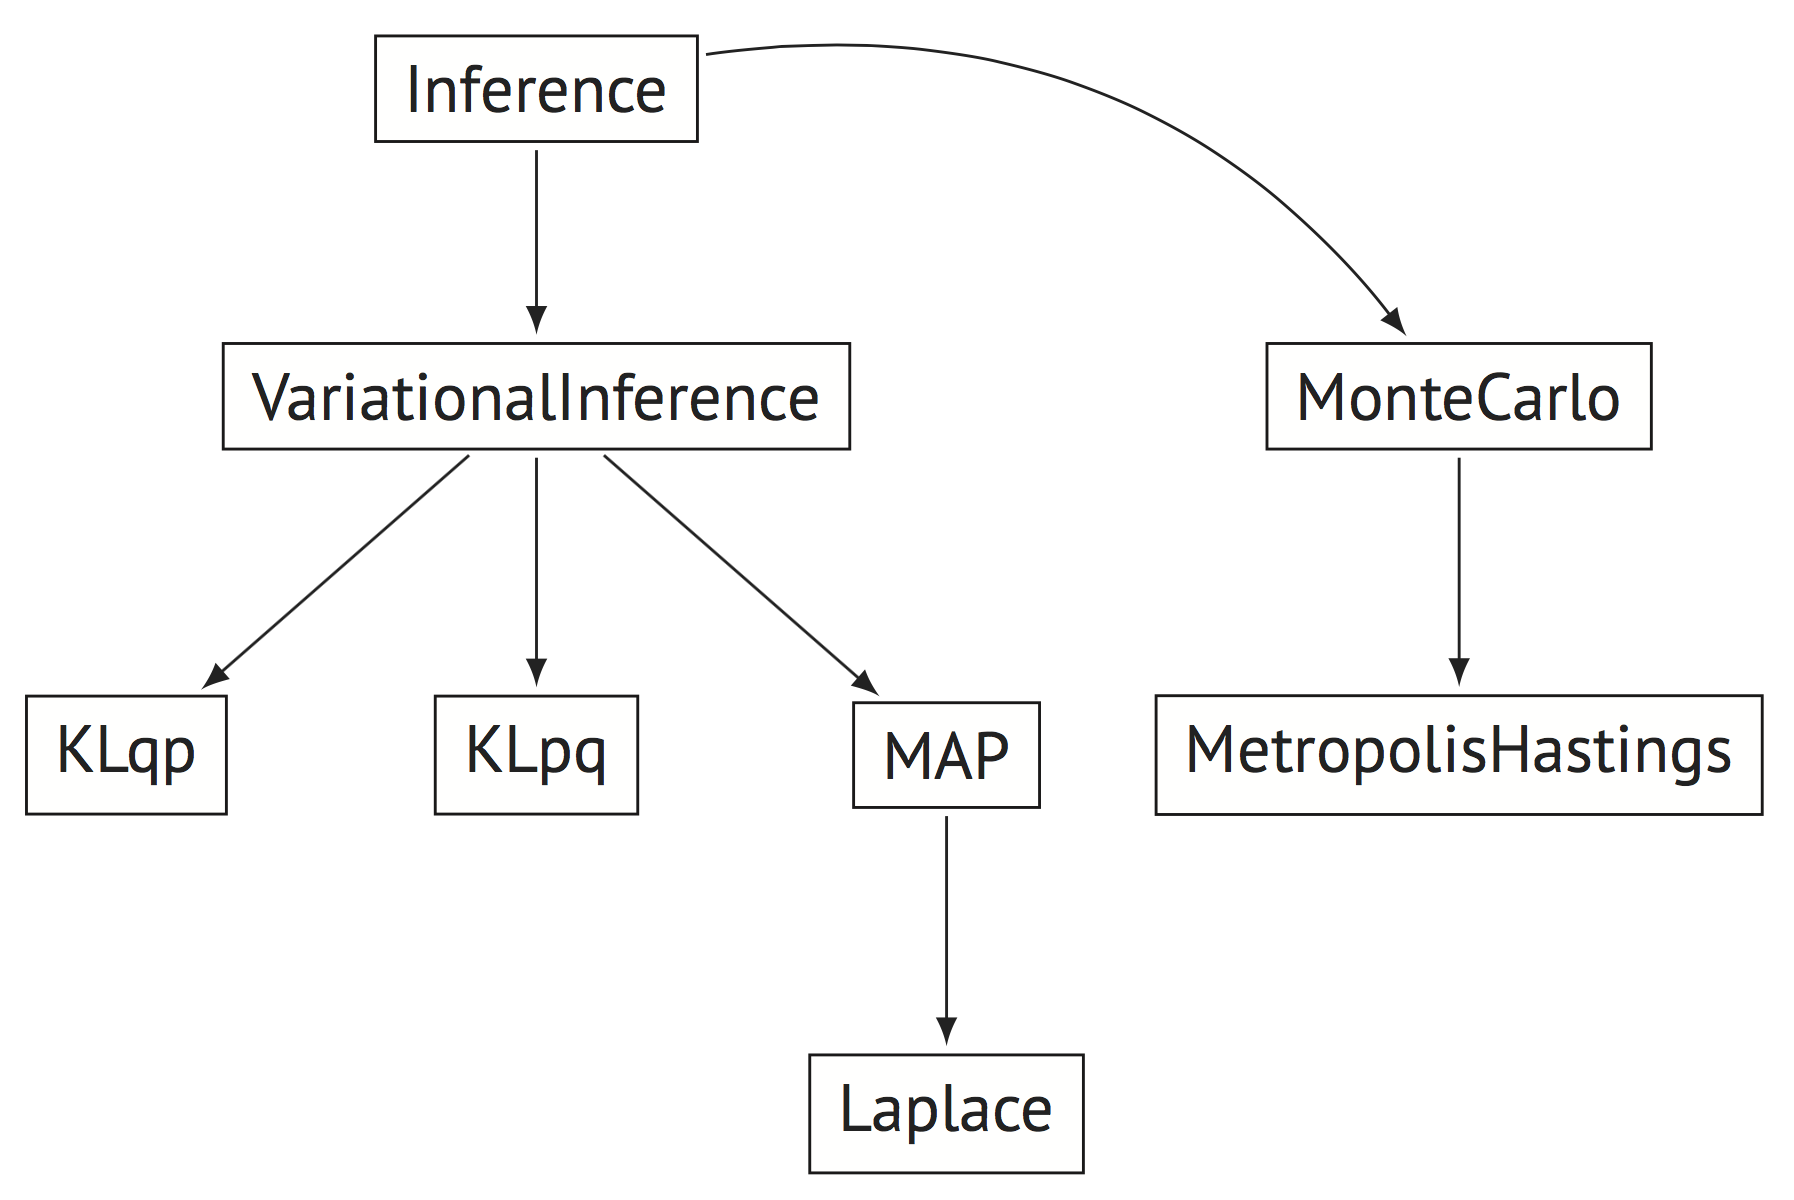
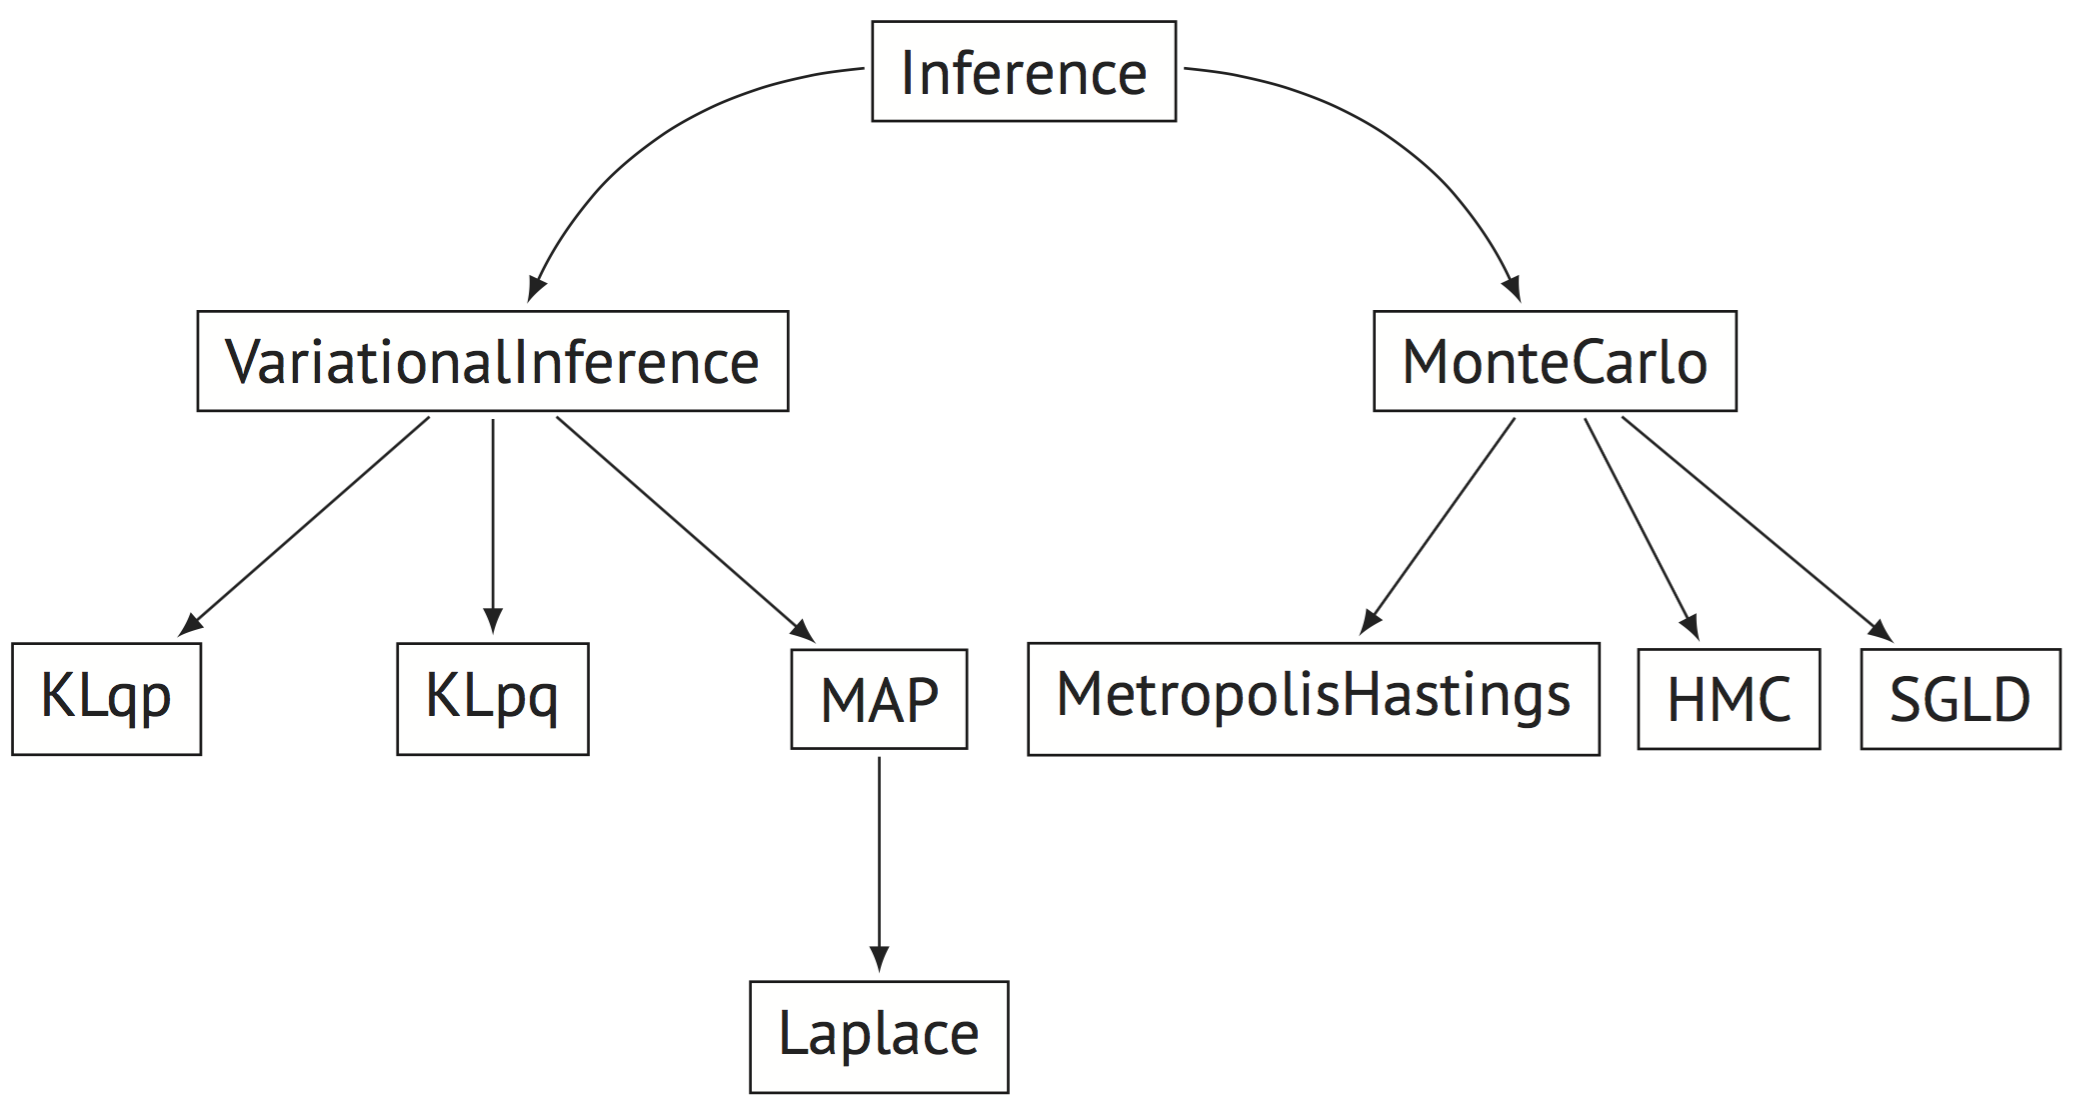
Update documentation

diff --git a/tutorials/mixture-density-network.html b/tutorials/mixture-density-network.html
@@ -132,8 +132,8 @@ data = {'X': X, 'y': y}</code></pre>
   def neural_network(self, X):
     """pi, mu, sigma = NN(x; theta)"""
     # fully-connected layer with 25 hidden units
-    hidden1 = Dense(25, activation='relu')(X)
-    hidden2 = Dense(25, activation='relu')(hidden1)
+    hidden1 = Dense(25, activation=K.relu)(X)
+    hidden2 = Dense(25, activation=K.relu)(hidden1)
     self.mus = Dense(self.K)(hidden2)
     self.sigmas = Dense(self.K, activation=K.exp)(hidden2)
     self.pi = Dense(self.K, activation=K.softmax)(hidden2)
@@ -152,10 +152,13 @@ data = {'X': X, 'y': y}</code></pre>
 <h3 id="inference">Inference</h3>
 <p>We use MAP estimation, passing in the model and data set. See this extended tutorial about <a href="/tutorials/map">MAP estimation in Edward</a>.</p>
 <pre class="python" language="Python"><code>inference = ed.MAP([], data, model)</code></pre>
-<p>Here, we will manually control the inference and how data is passed into it at each step. First, start a TensorFlow session and pass it into Keras so that it shares the same TensorFlow session as Edward. Then initialize the algorithm.</p>
+<p>Here, we will manually control the inference and how data is passed into it at each step. First, start a TensorFlow session and pass it into Keras so that it shares the same TensorFlow session as Edward. Then initialize the algorithm and the TensorFlow variables.</p>
 <pre class="python" language="Python"><code>sess = ed.get_session()
 K.set_session(sess)
-inference.initialize()</code></pre>
+inference.initialize()
+
+init = tf.initialize_all_variables()
+init.run()</code></pre>
 <p>Now we train the MDN by calling <code>inference.train</code>, which runs one step of inference. The quantity <code>inference.loss</code> is the loss function (negative log-likelihood) at that step of inference. We also report the loss function on test data by calling <code>inference.loss</code> and where we feed test data to the TensorFlow placeholders instead of training data. We keep track of the losses under <code>train_loss</code> and <code>test_loss</code>.</p>
 <pre class="python" language="Python"><code>NEPOCH = 1000
 train_loss = np.zeros(NEPOCH)

diff --git a/troubleshooting.html b/troubleshooting.html
@@ -93,7 +93,7 @@
 <li>NumPy (&gt;=1.7)</li>
 <li>SciPy (&gt;=0.16)</li>
 <li>Six (&gt;=1.1.0)</li>
-<li>TensorFlow (&gt;=0.10.0)</li>
+<li>TensorFlow (&gt;=0.11.0rc0)</li>
 </ul>
 <p>We recommend using <code>pip</code> to install <code>numpy</code>, <code>scipy</code>, and <code>six</code> as</p>
 <pre language="JSON"><code>pip install numpy scipy six</code></pre>

diff --git a/index.html b/index.html
@@ -106,6 +106,8 @@
 </ul></li>
 <li>Monte Carlo
 <ul>
+<li>Hamiltonian Monte Carlo</li>
+<li>Stochastic gradient Langevin dynamics</li>
 <li>Metropolis-Hastings</li>
 </ul></li>
 <li>Marginal optimization (empirical Bayes, marginal maximum likelihood)

diff --git a/tex/tutorials/mixture-density-network.tex b/tex/tutorials/mixture-density-network.tex
@@ -80,8 +80,8 @@ class MixtureDensityNetwork:
   def neural_network(self, X):
     """pi, mu, sigma = NN(x; theta)"""
     # fully-connected layer with 25 hidden units
-    hidden1 = Dense(25, activation='relu')(X)
-    hidden2 = Dense(25, activation='relu')(hidden1)
+    hidden1 = Dense(25, activation=K.relu)(X)
+    hidden2 = Dense(25, activation=K.relu)(hidden1)
     self.mus = Dense(self.K)(hidden2)
     self.sigmas = Dense(self.K, activation=K.exp)(hidden2)
     self.pi = Dense(self.K, activation=K.softmax)(hidden2)
@@ -117,12 +117,15 @@ inference = ed.MAP([], data, model)
 Here, we will manually control the inference and how data is passed
 into it at each step. First, start a TensorFlow session and pass it
 into Keras so that it shares the same TensorFlow session as Edward.
-Then initialize the algorithm.
+Then initialize the algorithm and the TensorFlow variables.
 
 \begin{lstlisting}[language=Python]
 sess = ed.get_session()
 K.set_session(sess)
 inference.initialize()
+
+init = tf.initialize_all_variables()
+init.run()
 \end{lstlisting}
 
 Now we train the MDN by calling \texttt{inference.train}, which runs

diff --git a/tex/index.tex b/tex/index.tex
@@ -32,6 +32,8 @@ It supports \textbf{inference} with
   \end{itemize}
 \item Monte Carlo
   \begin{itemize}
+    \item Hamiltonian Monte Carlo
+    \item Stochastic gradient Langevin dynamics
     \item Metropolis-Hastings
   \end{itemize}
 \item Marginal optimization (empirical Bayes, marginal maximum likelihood)

diff --git a/tex/troubleshooting.tex b/tex/troubleshooting.tex
@@ -9,7 +9,7 @@ Edward depends on
   \item NumPy (>=1.7)
   \item SciPy (>=0.16)
   \item Six (>=1.1.0)
-  \item TensorFlow (>=0.10.0)
+  \item TensorFlow (>=0.11.0rc0)
 \end{itemize}
 
 We recommend using \texttt{pip} to install \texttt{numpy}, \texttt{scipy}, and
